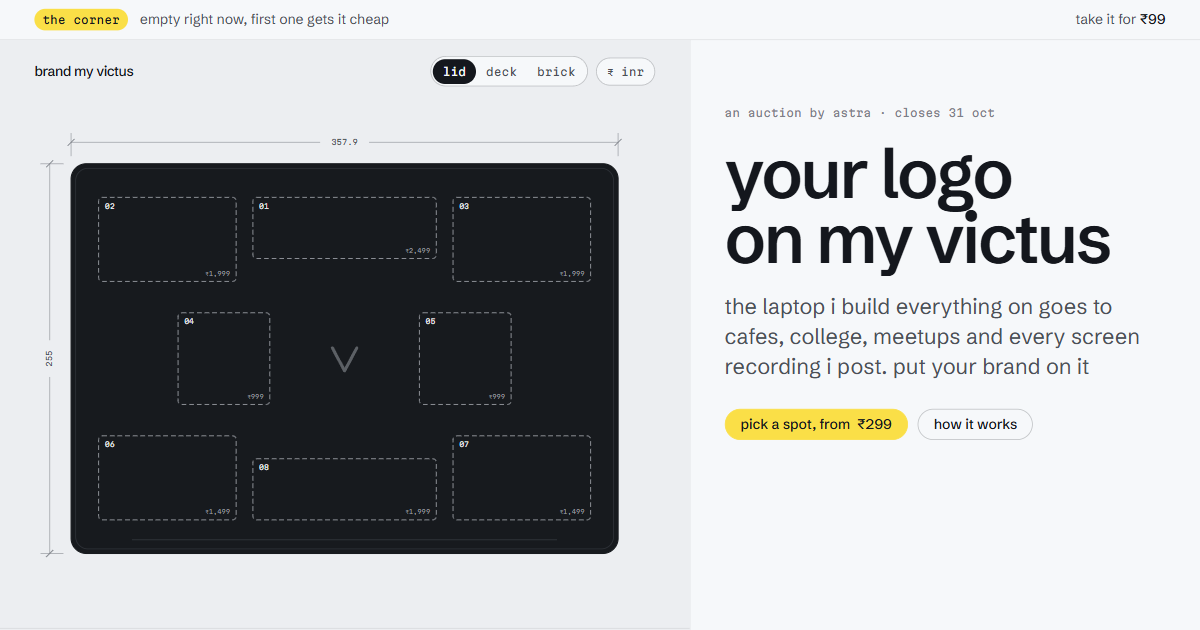
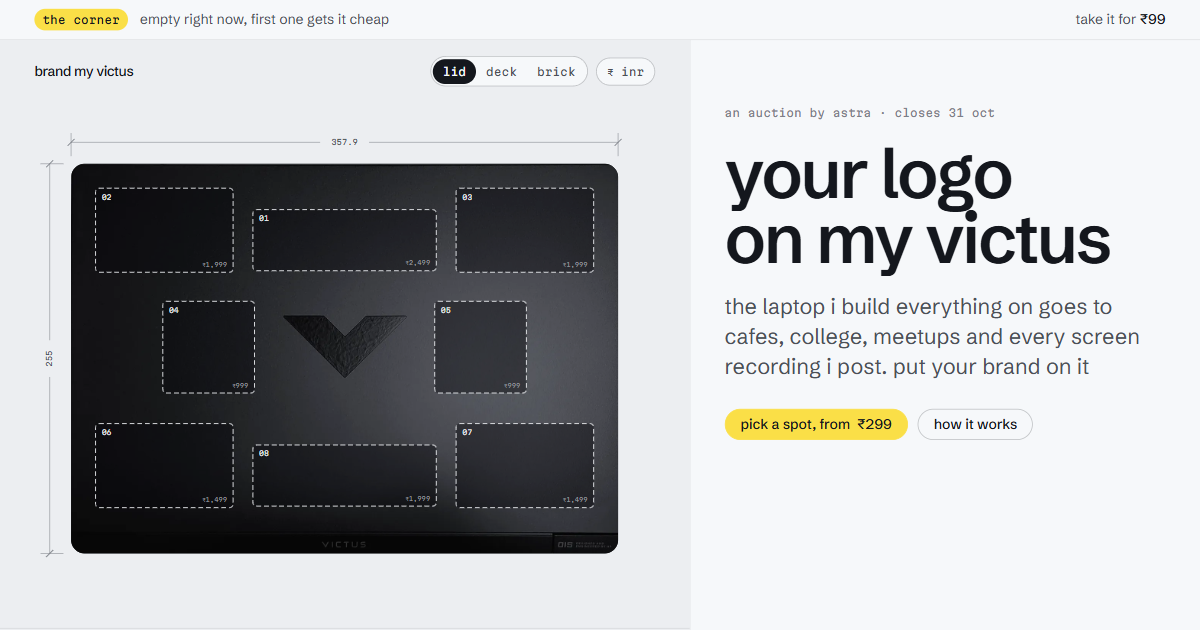
feat: real victus photos with spots mapped around the V

diff --git a/src/lib/site.ts b/src/lib/site.ts
@@ -47,19 +47,27 @@ export const CORNER: Spot = {
   start: AUCTION.cornerStart,
 };
 
-export const LID = { w: 357.9, h: 255, mark: { x: 178.95, y: 127.5, r: 17 } } as const;
+export const LID = { w: 357.9, h: 255 } as const;
+
+export const PHOTOS = {
+  credit: "OhanaUnited",
+  license: "cc by-sa 4.0",
+  licenseUrl: "https://creativecommons.org/licenses/by-sa/4.0/",
+  lid: { src: "/photos/lid.webp", source: "https://commons.wikimedia.org/wiki/File:HP_Victus_laptop.jpg" },
+  deck: { src: "/photos/deck.webp", source: "https://commons.wikimedia.org/wiki/File:HP_Victus_laptop_2.jpg" },
+} as const;
 
 export const SPOTS: Spot[] = [
-  { id: 1, zone: "lid", label: "marquee above the mark", size: "l", w: 120, h: 40, x: 118.95, y: 22, start: 2499 },
-  { id: 2, zone: "lid", label: "top left", size: "l", w: 90, h: 55, x: 18, y: 22, start: 1999 },
-  { id: 3, zone: "lid", label: "top right", size: "l", w: 90, h: 55, x: 249.9, y: 22, start: 1999 },
-  { id: 4, zone: "lid", label: "left of the mark", size: "m", w: 60, h: 60, x: 70, y: 97.5, start: 999 },
-  { id: 5, zone: "lid", label: "right of the mark", size: "m", w: 60, h: 60, x: 227.9, y: 97.5, start: 999 },
-  { id: 6, zone: "lid", label: "bottom left", size: "l", w: 90, h: 55, x: 18, y: 178, start: 1499 },
-  { id: 7, zone: "lid", label: "bottom right", size: "l", w: 90, h: 55, x: 249.9, y: 178, start: 1499 },
-  { id: 8, zone: "lid", label: "marquee above the hinge", size: "l", w: 120, h: 40, x: 118.95, y: 193, start: 1999 },
-  { id: 9, zone: "deck", label: "left palm rest", size: "s", w: 40, h: 40, x: 30, y: 172, start: 299 },
-  { id: 10, zone: "deck", label: "right palm rest", size: "s", w: 40, h: 40, x: 287.9, y: 172, start: 299 },
+  { id: 1, zone: "lid", label: "marquee above the V", size: "l", w: 120, h: 40, x: 118.95, y: 30, start: 2499 },
+  { id: 2, zone: "lid", label: "top left", size: "l", w: 90, h: 55, x: 16, y: 16, start: 1999 },
+  { id: 3, zone: "lid", label: "top right", size: "l", w: 90, h: 55, x: 251.9, y: 16, start: 1999 },
+  { id: 4, zone: "lid", label: "left of the V", size: "m", w: 60, h: 60, x: 60, y: 90, start: 999 },
+  { id: 5, zone: "lid", label: "right of the V", size: "m", w: 60, h: 60, x: 237.9, y: 90, start: 999 },
+  { id: 6, zone: "lid", label: "bottom left", size: "l", w: 90, h: 55, x: 16, y: 170, start: 1499 },
+  { id: 7, zone: "lid", label: "bottom right", size: "l", w: 90, h: 55, x: 251.9, y: 170, start: 1499 },
+  { id: 8, zone: "lid", label: "marquee above the hinge", size: "l", w: 120, h: 40, x: 118.95, y: 184, start: 1999 },
+  { id: 9, zone: "deck", label: "left palm rest", size: "s", w: 40, h: 40, x: 30, y: 186, start: 299 },
+  { id: 10, zone: "deck", label: "right palm rest", size: "s", w: 40, h: 40, x: 242, y: 186, start: 299 },
   { id: 11, zone: "brick", label: "charger brick", size: "m", w: 90, h: 45, x: 30, y: 20, start: 599 },
 ];
 

diff --git a/src/middleware.ts b/src/middleware.ts
@@ -13,7 +13,12 @@ const HEADERS: Record<string, string> = {
 export const onRequest = defineMiddleware(async (_context, next) => {
   const response = await next();
   for (const [name, value] of Object.entries(HEADERS)) {
-    if (name === "content-security-policy" && import.meta.env.DEV) continue;
+    if (name === "content-security-policy") {
+      if (import.meta.env.DEV) continue;
+      const existing = response.headers.get(name);
+      response.headers.set(name, existing ? `${existing.replace(/;\s*$/, "")}; ${value}` : value);
+      continue;
+    }
     response.headers.set(name, value);
   }
   return response;

diff --git a/src/styles/app.css b/src/styles/app.css
@@ -20,6 +20,7 @@
   --color-on-lid: oklch(0.93 0.005 262);
   --color-on-lid-dim: oklch(0.68 0.01 262);
   --color-vinyl: oklch(0.995 0 0);
+  --color-plot-fill: oklch(0.12 0.01 262 / 0.42);
   --color-signal: oklch(0.9 0.165 99);
   --color-signal-wash: oklch(0.9 0.165 99 / 0.22);
   --color-flag: oklch(0.55 0.18 32);
@@ -174,8 +175,8 @@
 }
 
 .plot {
-  fill: transparent;
-  stroke: var(--color-on-lid-dim);
+  fill: var(--color-plot-fill);
+  stroke: var(--color-on-lid);
   stroke-width: 0.6;
   stroke-dasharray: 3 2;
   transition:
